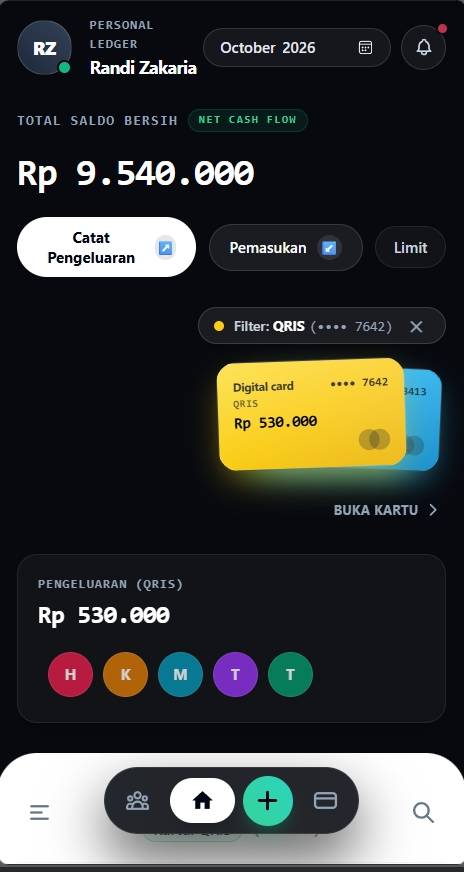
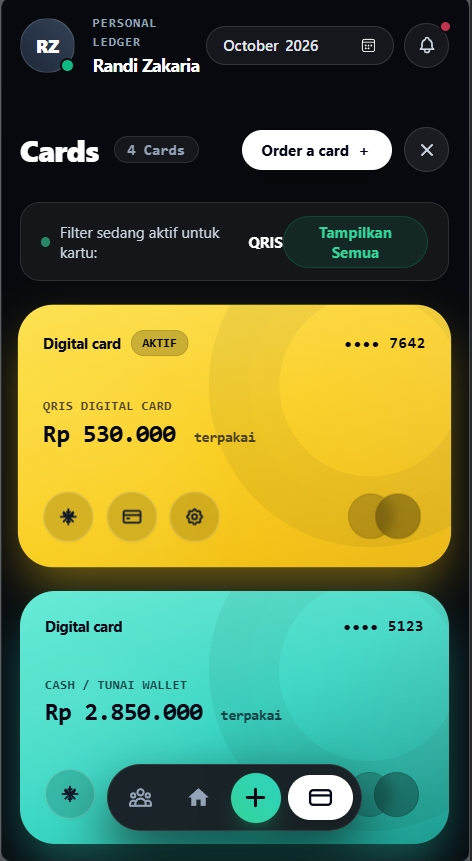
fix(modal): integrate custom smartphone mockup frame and straighten mobile screen

diff --git a/src/components/ProjectModal.tsx b/src/components/ProjectModal.tsx
@@ -138,21 +138,33 @@ export default function ProjectModal({ project, onClose }: ProjectModalProps) {
           {selectedImage ? (
             <div className="mt-6 space-y-3">
               {isCurrentMobile ? (
-                /* Mobile App Phone Mockup Presentation */
+                /* High-End Smartphone Mockup with User's Asset */
                 <div className="flex flex-col items-center justify-center py-6 px-4 rounded-xl border border-[var(--color-border-subtle)] bg-[var(--color-canvas)]/60">
-                  <div className="relative w-full max-w-[260px] sm:max-w-[290px] rounded-[34px] p-2.5 bg-neutral-950 border-[2.5px] border-neutral-700/80 shadow-[0_20px_50px_rgba(0,0,0,0.6)]">
-                    {/* Speaker notch / dynamic island */}
-                    <div className="w-16 h-3.5 bg-neutral-900 rounded-full mx-auto mb-2 flex items-center justify-center">
-                      <div className="w-2 h-2 rounded-full bg-neutral-800" />
-                    </div>
-                    {/* Screen Viewport */}
-                    <div className="rounded-[22px] overflow-hidden bg-black aspect-[9/18.5] max-h-[460px]">
+                  <div className="relative w-full max-w-[270px] sm:max-w-[300px] aspect-[500/940] select-none filter drop-shadow-[0_25px_35px_rgba(0,0,0,0.6)]">
+                    {/* Screen Viewport positioned behind the realistic frame */}
+                    <div
+                      className="absolute overflow-hidden bg-black"
+                      style={{
+                        left: '11.8%',
+                        top: '2.98%',
+                        width: '77.2%',
+                        height: '89.04%',
+                        borderRadius: '28px',
+                      }}
+                    >
                       <img
                         src={selectedImage}
                         alt={project.title}
-                        className="w-full h-full object-contain object-top"
+                        className="w-full h-full object-cover object-top"
                       />
                     </div>
+
+                    {/* Realistic iPhone Purple Frame with Dynamic Island & Metallic Bezels */}
+                    <img
+                      src="/projects/phone-mockup-frame.png"
+                      alt="Smartphone device frame"
+                      className="relative z-10 w-full h-full pointer-events-none object-contain"
+                    />
                   </div>
                 </div>
               ) : (
